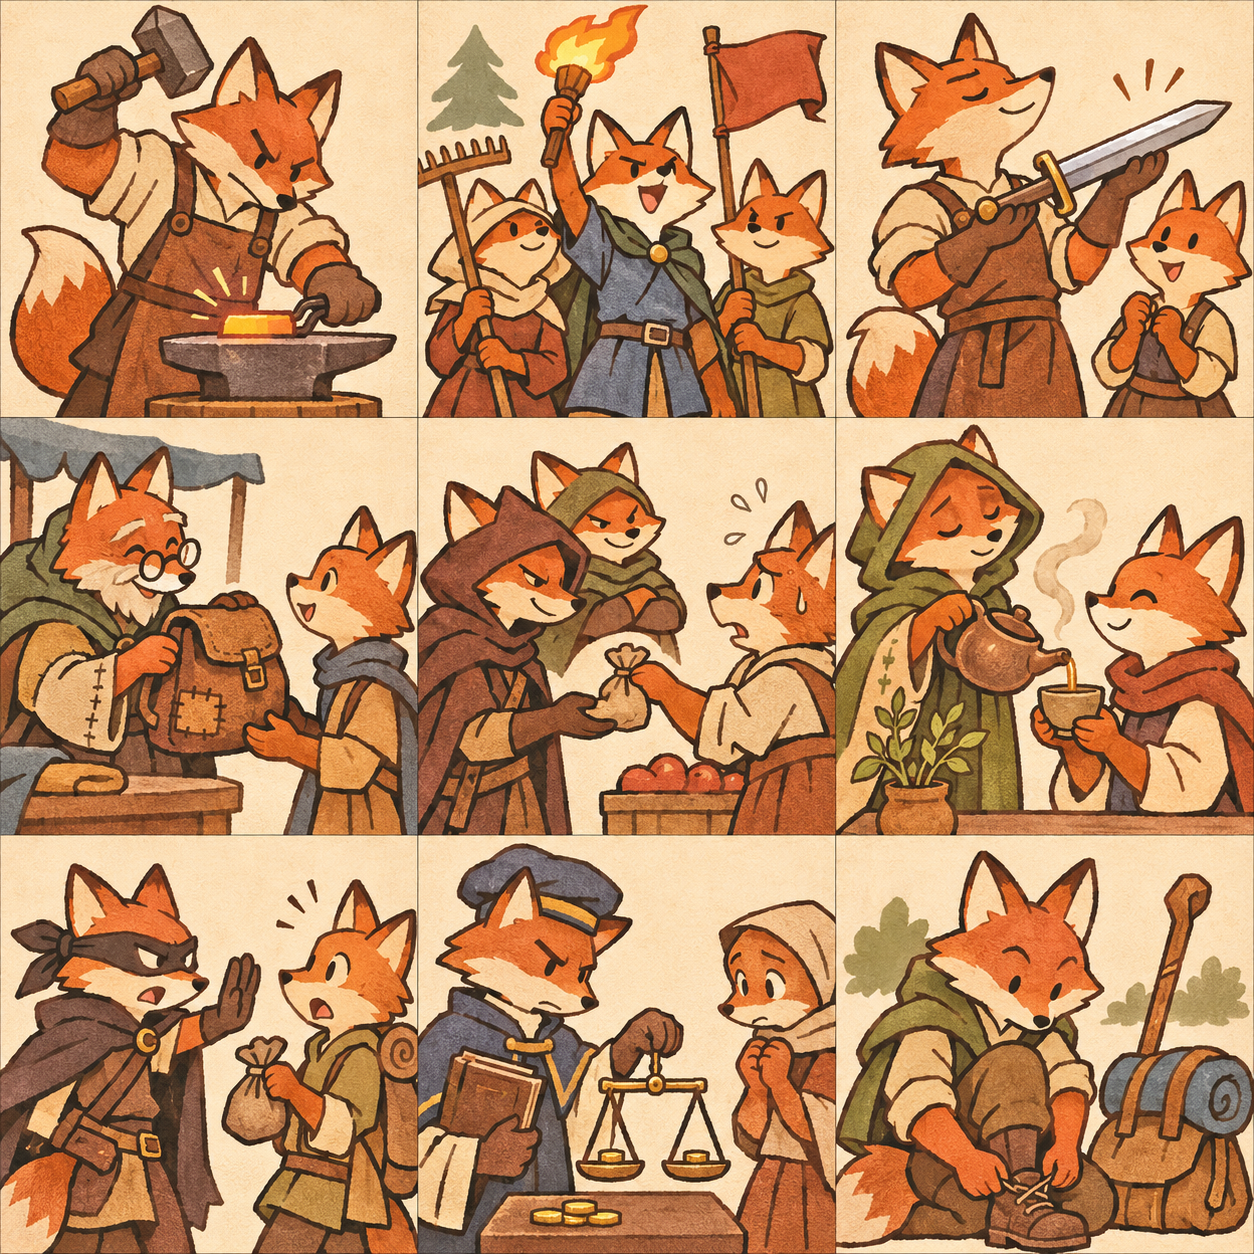
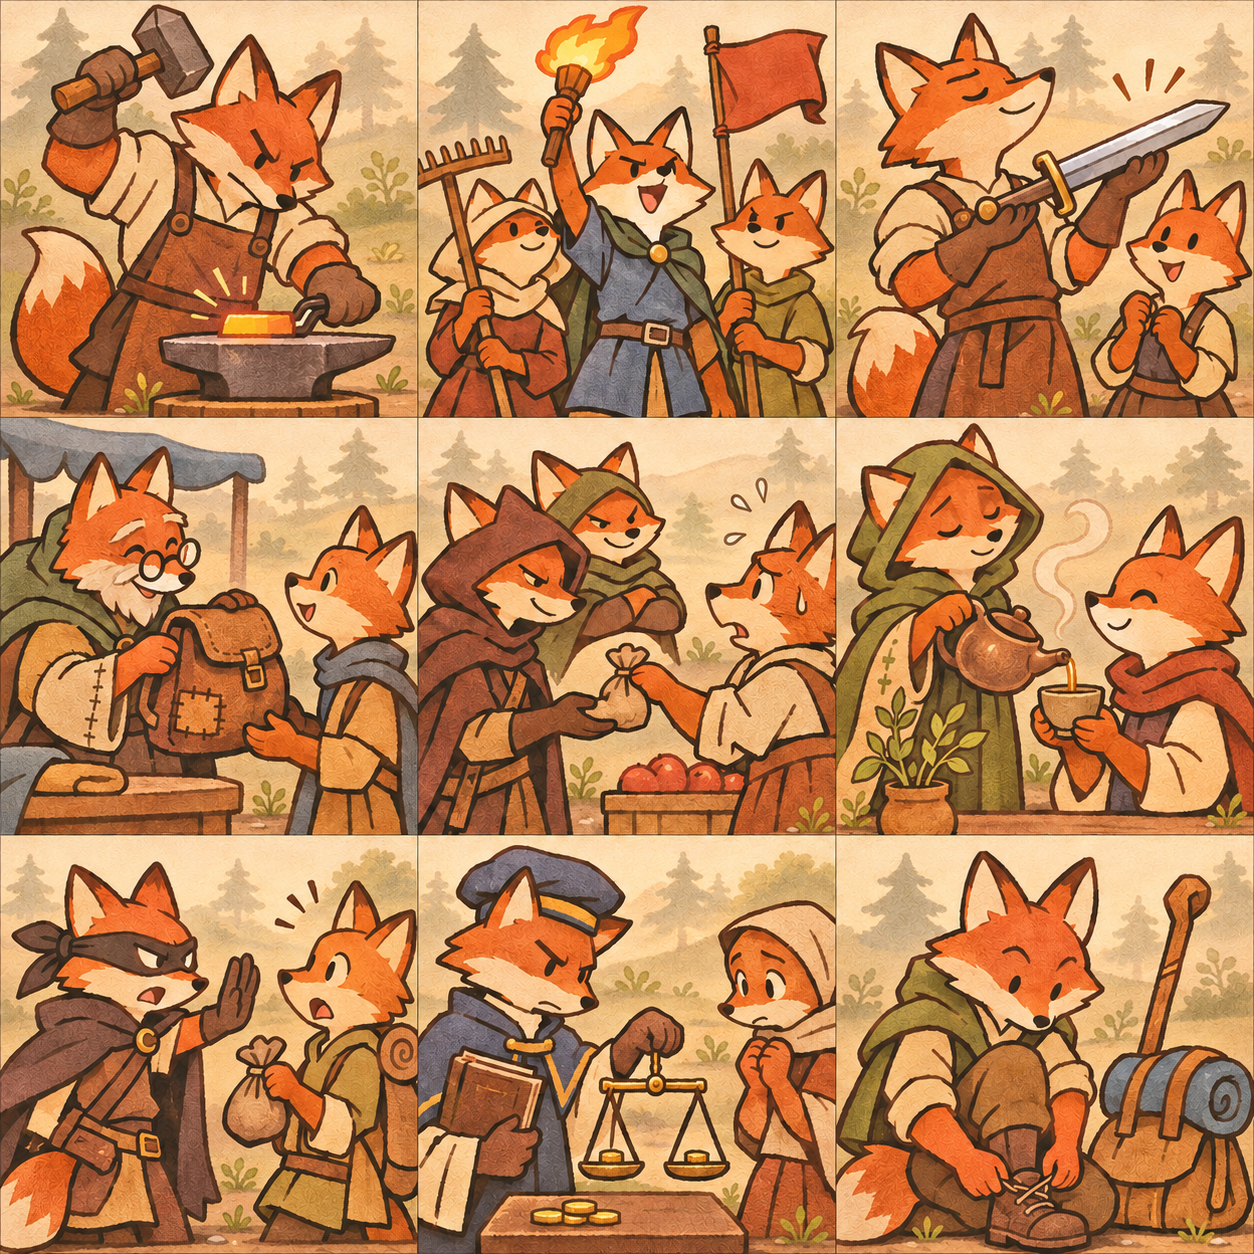
feat(client): add full-bleed art and compact adaptive card effects

diff --git a/packages/client/src/ui/card-face.ts b/packages/client/src/ui/card-face.ts
@@ -29,14 +29,16 @@ const PaperEdge = () => html`<svg class="cf-paper-edge" viewBox="0 0 100 100" pr
   <path class="crease" d="M2 42 L5 45 M98 31 L95 34 M94 94 L92 91 M3 75 L5 79" />
 </svg>`
 
-function Frame({ suit, cost, art, plaque, name, sub, text, size, label, paper = false, standard = false }: {
-  suit: CardDef['suit']; cost: ComponentChildren; art: string; plaque: ComponentChildren; name: string; sub: string; text: string; size: 'mini' | 'full'; label: string; paper?: boolean; standard?: boolean
+function Frame({ suit, cost, art, plaque, name, sub, text, size, label, paper = false, standard = false, costCount = 0 }: {
+  suit: CardDef['suit']; cost: ComponentChildren; art: string; plaque: ComponentChildren; name: string; sub: string; text: string; size: 'mini' | 'full'; label: string; paper?: boolean; standard?: boolean; costCount?: number
 }) {
+  const effect = html`<div class=${`cf-text${paper ? ' cf-paper' : ''}`}>${paper && html`<${PaperEdge} />`}${!standard && html`<b class=${`cf-name${name.length > 18 ? ' long longer' : name.length > 13 ? ' long' : ''}`}>${name}</b>`}${size === 'mini' ? html`<small>${sub}</small>` : html`<p>${displayCardText(text)}</p>`}</div>`
   return html`<div class=${`cardface ${size}${standard ? ' standard' : ''}`} style=${{ '--suit': `var(--suit-${suit})` }} role="img" aria-label=${label}>
     <div class="cf-head"><span class="cf-badge"><${SuitBadge} suit=${suit} label=${SUIT_NAME[suit]} /></span>${standard ? html`<b class="cf-title">${name}</b>` : html`<span class="cf-cost">${cost}</span>`}</div>
     <div class="cf-art" dangerouslySetInnerHTML=${{ __html: art }}></div>
-    <div class="cf-plaque">${standard ? html`<span class="cf-cost" aria-label="Điều kiện chế tạo">${cost}</span>` : plaque}</div>
-    <div class=${`cf-text${paper ? ' cf-paper' : ''}`}>${paper && html`<${PaperEdge} />`}${!standard && html`<b class=${`cf-name${name.length > 18 ? ' long longer' : name.length > 13 ? ' long' : ''}`}>${name}</b>`}${size === 'mini' ? html`<small>${sub}</small>` : html`<p>${displayCardText(text)}</p>`}</div>
+    ${standard ? html`<div class="cf-bottom" data-cost-count=${costCount} style=${{ '--cost-columns': costCount > 2 ? 2 : 1 }}>
+      <div class="cf-plaque"><span class="cf-cost" aria-label="Điều kiện chế tạo">${cost}</span></div>${effect}</div>`
+      : html`<div class="cf-plaque">${plaque}</div>${effect}`}
   </div>`
 }
 
@@ -66,7 +68,7 @@ export function CardFace({ card }: { card: string; size: 'mini' | 'full' }) {
     : html`<span style=${{ '--icon-fill': 'var(--paper-raised)' }}><${Icon} name=${PLAQUE[d.kind]} /></span>`
   const sub = d.kind === 'item' ? `${ITEM_NAME[d.item!]} · +${d.vp ?? 0}` : KIND_NAME[d.kind]
   return html`<${Frame} suit=${d.suit} cost=${d.cost.map(s => html`<${CostPip} suit=${s} />`)} art=${cardArt(d, copyOf(card))} plaque=${plaque}
-    standard=${d.kind !== 'dominance'} paper=${d.kind === 'item' || d.kind === 'immediate'} name=${d.name} sub=${sub} text=${cardText(d)} size=${size} label=${`${d.name}, ${SUIT_NAME[d.suit]}, ${sub}`} />`
+    standard=${d.kind !== 'dominance'} costCount=${d.cost.length} paper=${d.kind === 'item' || d.kind === 'immediate'} name=${d.name} sub=${sub} text=${cardText(d)} size=${size} label=${`${d.name}, ${SUIT_NAME[d.suit]}, ${sub}`} />`
 }
 
 /** A Vagabond quest (§9.5.5): the two items to exhaust sit where a card's cost would be. */

diff --git a/packages/client/src/style.css b/packages/client/src/style.css
@@ -160,15 +160,18 @@ input[type=checkbox] { accent-color: var(--wood); width: 16px; height: 16px; }
 .cardface.full .cf-plaque { left: 4%; bottom: 3%; width: 17%; height: 44%; flex-direction: column; font-size: .9em; }
 .cardchip-suit { display: inline-flex; margin-right: 3px; vertical-align: -3px; }
 .cardchip-suit .suit-badge { width: 16px; height: 16px; }
-/* Ordinary craftable cards: suit + name above, crafting suits below left, effect alone below right. */
-.cardface.standard .cf-head { gap: .3em; padding: 0 4%; }
-.cardface.standard .cf-badge { flex: none; }
-.cardface.standard .cf-title { min-width: 0; font: 400 1em/1.15 var(--font-display); white-space: normal; overflow-wrap: anywhere; }
-.cardface.standard .cf-art { inset: 17% 0 36%; }
-.cardface.standard .cf-text { height: 31%; }
-.cardface.standard .cf-plaque { height: 31%; }
-.cardface.standard .cf-cost { flex-direction: column; align-items: center; gap: .1em; }
-.cardface.standard .cf-pip { box-sizing: border-box; width: 1.25em; height: 1.25em; flex: none; }
+/* Ordinary cards: full-bleed painting and a content-sized crafting/effect slip. */
+.cardface.standard { background: var(--paper); }
+.cardface.standard .cf-head { gap: .3em; padding: 0 4%; z-index: 2; }
+.cardface.standard .cf-badge { position: absolute; left: 4%; bottom: -1px; transform: translateY(50%); }
+.cardface.standard .cf-title { min-width: 0; margin-left: 2.9em; color: var(--white); font: 600 .9em/1.15 var(--font-display); white-space: normal; overflow-wrap: anywhere; text-shadow: 0 1px 1px var(--ink-a25); }
+.cardface.standard .cf-art { inset: 17% 0 0; border: 0; }
+.cardface.standard .cf-bottom { position: absolute; z-index: 1; left: 4%; right: 4%; bottom: 3%; display: grid; grid-template-columns: max-content minmax(0, 1fr); align-items: stretch; gap: .25em; }
+.cardface.standard .cf-bottom .cf-text { position: relative; inset: auto; height: auto; min-height: 0; padding: .4em .5em; box-sizing: border-box; }
+.cardface.standard .cf-bottom .cf-text p { font-size: .55em; line-height: 1.35; }
+.cardface.standard .cf-bottom .cf-plaque { position: static; width: auto; height: auto; padding: .3em; font-size: .9em; box-sizing: border-box; }
+.cardface.standard .cf-cost { display: grid; grid-template-columns: repeat(var(--cost-columns), 1fr); align-items: center; gap: .12em; }
+.cardface.standard .cf-pip { box-sizing: border-box; width: 1.15em; height: 1.15em; flex: none; }
 .cardface.standard .cf-pip.any { font-size: 1em; }
 /* Ambush cards (§4.3.1), like the printed ones: a narrow band with the badge hanging below it and the name, the scene
    down to the bottom edge, one torn-paper box with where it can be played and what it does. */
@@ -492,5 +495,5 @@ button.secondary[aria-pressed="true"] { background: var(--wood); color: var(--pa
 .hud-actions .hud-action-types:empty { display: none; }
 .hud-actions .hud-action-types button { flex: 1; font-size: 12px; }
 
-/* Character scenes keep their full square composition inside the card art window. */
+/* Original character paintings cover the card beneath the header and compact text slips. */
 .cf-art:has(.cf-woodland-art) { background: var(--paper); }

diff --git a/packages/client/visual/card-layout.spec.ts b/packages/client/visual/card-layout.spec.ts
@@ -1,0 +1,39 @@
+import { test, expect } from '@playwright/test'
+
+for (const width of [120, 180, 320]) {
+  test(`ordinary cards use full art and compact readable content at ${width}px`, async ({ page }) => {
+    await page.goto('/ui-kit.html')
+    await page.evaluate(() => document.fonts.ready)
+    const cards = page.locator('.kit-deck .cardface.standard')
+    await expect(cards).toHaveCount(45)
+    const results = await cards.evaluateAll((elements, width) => elements.map(card => {
+      const root = card as HTMLElement
+      root.style.setProperty('--cf-w', `${width}px`)
+      const box = root.getBoundingClientRect()
+      const el = (q: string) => root.querySelector(q) as HTMLElement
+      const head = el('.cf-head').getBoundingClientRect(), badge = el('.cf-badge').getBoundingClientRect()
+      const title = el('.cf-title'), text = el('.cf-text'), plaque = el('.cf-plaque')
+      const art = el('.cf-art').getBoundingClientRect(), bottom = el('.cf-bottom').getBoundingClientRect()
+      return {
+        name: title.textContent,
+        badgeOffset: Math.abs(badge.y + badge.height / 2 - (head.bottom - 1)),
+        color: getComputedStyle(title).color, weight: getComputedStyle(title).fontWeight,
+        titleFits: title.getBoundingClientRect().bottom <= head.bottom + 1,
+        textFits: text.scrollHeight <= text.clientHeight + 1,
+        costFits: el('.cf-cost').getBoundingClientRect().bottom <= plaque.getBoundingClientRect().bottom + 1,
+        artToBottom: Math.abs(art.bottom - (box.bottom - 1.5)),
+        compact: bottom.height / box.height,
+        height: bottom.height,
+      }
+    }), width)
+    for (const r of results) {
+      expect(r.badgeOffset, r.name ?? '').toBeLessThanOrEqual(1.5)
+      expect(r.color).toBe('rgb(255, 255, 255)')
+      expect(r.weight).toBe('600')
+      expect(r.titleFits && r.textFits && r.costFits, r.name ?? '').toBe(true)
+      expect(r.artToBottom, r.name ?? '').toBeLessThan(1)
+      expect(r.compact, r.name ?? '').toBeLessThan(.34)
+    }
+    expect(new Set(results.map(r => r.height)).size).toBeGreaterThan(2)
+  })
+}

diff --git a/packages/client/src/ui/woodland-art.ts b/packages/client/src/ui/woodland-art.ts
@@ -22,9 +22,9 @@ export function woodlandArt(id: string, suit: CardSuit): string {
   const cell = 418, inset = 3
   const x = (index % 3) * cell + inset, y = Math.floor(index / 3) * cell + inset, size = cell - inset * 2
   const clip = `woodland-${id}`
-  // Clip the sheet itself, so 'meet' cannot expose neighbouring panels in the side margins.
-  // Keep the complete square scene: the main character's ears, paws and props stay visible in the wide art window.
-  return `<svg class="cf-scene cf-woodland-art" data-design="${id}" data-suit="${suit}" viewBox="${x} ${y} ${size} ${size}" preserveAspectRatio="xMidYMid meet" aria-hidden="true">`
+  // Keep the whole painted panel and fill the card beneath the header, including behind the text slip.
+  // A dedicated clip prevents neighbouring scenes from entering the card.
+  return `<svg class="cf-scene cf-woodland-art" data-design="${id}" data-suit="${suit}" viewBox="${x} ${y} ${size} ${size}" preserveAspectRatio="none" aria-hidden="true">`
     + `<defs><clipPath id="${clip}"><rect x="${x}" y="${y}" width="${size}" height="${size}"/></clipPath></defs>`
     + `<image href="${SHEETS[suit]}" width="1254" height="1254" clip-path="url(#${clip})"/></svg>`
 }

diff --git a/packages/client/test/cards.test.ts b/packages/client/test/cards.test.ts
@@ -106,3 +106,15 @@ test('dominance and quests keep header conditions and name in the lower panel', 
   assert.match(out, /cf-head.*cf-cost.*cf-art/s)
   assert.match(out, /cf-text.*cf-name/s)
 })
+
+
+test('ordinary crafting/effect slips use intrinsic content size and pack larger costs in two columns', () => {
+  for (const d of BASE_DECK.filter(d => ['item', 'persistent', 'immediate'].includes(d.kind))) {
+    const out = render(html`<${CardFace} card=${`${d.id}#1`} size="full" />`)
+    assert.ok(out.includes(`data-cost-count="${d.cost.length}"`), d.id)
+    assert.ok(out.includes(`--cost-columns:${d.cost.length > 2 ? 2 : 1}`), d.id)
+    assert.match(out, /cf-bottom.*cf-plaque.*cf-text/s, d.id)
+  }
+  const special = render(html`<${CardFace} card="dominance-fox#1" size="full" />`)
+  assert.ok(!special.includes('cf-bottom'))
+})

diff --git a/packages/client/test/woodland-art.test.ts b/packages/client/test/woodland-art.test.ts
@@ -18,7 +18,7 @@ test('all 45 craftable cards map to exactly 34 distinct character paintings', ()
     const art = cardArt(d)
     assert.ok(art.includes(`data-design="${d.id}"`), d.id)
     assert.ok(art.includes(`woodland-${d.suit}.png`), d.id)
-    assert.ok(art.includes('clip-path=') && art.includes('xMidYMid meet'), d.id)
+    assert.ok(art.includes('clip-path=') && art.includes('preserveAspectRatio="none"'), d.id)
     for (let copy = 1; copy <= d.copies; copy++) assert.equal(cardArt(d, copy), art)
   }
 })

diff --git a/docs/07-ui/style-guide.md b/docs/07-ui/style-guide.md
@@ -90,11 +90,11 @@ Mọi vật 3D lấy vật liệu theo **vai trò** từ `board/look.ts` (`mat(r
 - **Nút chính:** gỗ có vân (`--grain-wood` trên chuyển sắc `wood-light` → `wood`), chữ `paper`, viền `ink`; hover sáng hơn một nấc; bấm lún 2 px. Nút phụ là giấy. Nút có kiểu riêng (neo ô, huy hiệu, dải bài) giữ kiểu của nó.
 - **Lá bài** (`ui/card-face.ts`): viền ngoài 1 px (mini), 1.5 px (full), bằng một nửa trước đây. Chữ nội dung nhỏ, weight 400; tiêu đề có khoảng thở với viền. Ô nội dung các lá dùng một lần (Ambush, dùng ngay và chế tạo item) là giấy vàng nhạt `paper-effect`, viền mực mảnh với vài vết rách/nếp gấp nhỏ; các lá lâu dài, dominance và quest giữ kiểu khung riêng.
   Bố cục: bố cục theo lá in, tỉ lệ 63:88, mọi lá trong bộ 54 lá dùng `full` 320 px với hiệu ứng đầy đủ, kể cả tay bài và hộp quyết định; quest giữ cỡ `mini` 92 px hoặc `full` 320 px.
-  - **Dải đầu màu chất:** bài thường (item, dùng ngay, lâu dài) có huy hiệu chất bên trái và tên lá bài bên phải theo mẫu người quản lý ngày 03/11/2026. Dominance và Quest giữ bố cục riêng; Quest để hai item yêu cầu ở dải đầu.
-  - **Vùng tranh** (`ui/card-art.ts`, `ui/woodland-art.ts`): 45 lá thường dùng 34 tranh gốc do imagegen tạo ngày 03/11/2026 theo yêu cầu người quản lý: nhân vật rừng là chủ thể, nét mực nâu giản dị, mảng gouache phẳng ấm và giấy có thớ, nền ít chi tiết. Chim/Cáo/Thỏ/Chuột có một sheet 3×3 riêng, lần lượt 8/9/8/9 cảnh, thứ tự ở `WOODLAND_PANELS`. Nhân vật thể hiện hành động và đạo cụ chính của lá (thợ giáp, thợ rèn, người bán trà, thu thuế, trinh sát…); bản sao cùng mẫu dùng chung tranh. Giữ trọn cảnh vuông trong cửa sổ tranh, nền giấy hai bên; clip riêng ô để không lộ cảnh kế bên. Không phản chiếu tranh nhân vật. Ambush giữ nguyên tranh đã duyệt trong `ambush-woodland.png`; Dominance và Quest giữ tranh SVG sinh bằng code. Không dùng art chính thức.
-  - **Tấm gỗ** góc dưới trái: bài thường đặt các chất cần để chế tạo, xếp dọc; `?` ba màu là bất kỳ chất nào. Item và điểm thưởng đã có trong nội dung hiệu ứng. Dominance giữ vương miện; Quest giữ sao + lá.
+  - **Dải đầu màu chất:** bài thường (item, dùng ngay, lâu dài) có huy hiệu chất bên trái và tên lá bài bên phải theo mẫu người quản lý ngày 03/11/2026. Đường phân cách dưới dải đầu đi qua tâm huy hiệu chất. Tên bài thường màu `white`, weight 600. Dominance và Quest giữ bố cục riêng; Quest để hai item yêu cầu ở dải đầu.
+  - **Vùng tranh** (`ui/card-art.ts`, `ui/woodland-art.ts`): 45 lá thường dùng 34 tranh gốc do imagegen tạo ngày 03/11/2026 theo yêu cầu người quản lý: nhân vật rừng là chủ thể, nét mực nâu giản dị, mảng gouache phẳng ấm và giấy có thớ, nền ít chi tiết. Chim/Cáo/Thỏ/Chuột có một sheet 3×3 riêng, lần lượt 8/9/8/9 cảnh, thứ tự ở `WOODLAND_PANELS`. Nhân vật thể hiện hành động và đạo cụ chính của lá (thợ giáp, thợ rèn, người bán trà, thu thuế, trinh sát…); bản sao cùng mẫu dùng chung tranh. Theo chỉnh sửa 03/11/2026, tranh được imagegen bổ sung cây xa, tiền/trung cảnh và bóng tiếp xúc nhẹ; trải từ dưới dải đầu đến đáy lá, kể cả phía sau khung nội dung, không còn dải xanh. SVG giữ toàn cảnh và co theo vùng tranh bằng `preserveAspectRatio="none"`; clip riêng ô để không lộ cảnh kế bên. Không phản chiếu tranh nhân vật. Ambush giữ nguyên tranh đã duyệt trong `ambush-woodland.png`; Dominance và Quest giữ tranh SVG sinh bằng code. Không dùng art chính thức.
+  - **Tấm gỗ** góc dưới trái: bài thường đặt các chất cần để chế tạo trong ô vừa nội dung, 1–2 chất xếp một cột, 3–4 chất xếp hai cột; `?` ba màu là bất kỳ chất nào. Item và điểm thưởng đã có trong nội dung hiệu ứng. Dominance giữ vương miện; Quest giữ sao + lá.
   - **Lá Ambush** (§4.3.1) theo bố cục lá in riêng: dải đầu hẹp, huy hiệu chất treo xuống dưới dải, tên lá chữ lớn bên phải; không có chi phí và tấm gỗ; tranh kéo xuống tận đáy lá, dùng tranh indie được chọn theo chất: chim dưới tán cây, thỏ giữa cỏ thu, cáo sau thân cây, chuột bên cối xay; một khung giấy mép rách ở đáy gồm dòng nghiêng nơi được chơi ("Có thể ambush ở ô …", chim là ô bất kỳ) và hiệu ứng đầy đủ.
-  - **Khung giấy** góc vát: bài thường chỉ chứa hiệu ứng tiếng Việt, không lặp tên lá bài; tên gốc tiếng Anh bằng Pangolin nằm trên dải đầu. Dominance và Quest giữ tên trong khung dưới; quest cỡ `mini` giữ dòng loại lá; số điều khoản giữ trong source để đối chiếu, không hiện trên lá hay mô tả chi tiết (`ui/card-text.ts`). Câu tiếng Anh in gốc xem trong "Bản in tiếng Anh" của khung chi tiết.
+  - **Khung giấy** góc vát: bài thường chỉ chứa hiệu ứng tiếng Việt, không lặp tên lá bài; khay điều kiện/hiệu ứng dùng grid theo nội dung và số chất, chiều cao tự co theo số dòng thay vì một tỉ lệ cố định cho mọi lá. Tên gốc tiếng Anh bằng Pangolin nằm trên dải đầu. Dominance và Quest giữ tên trong khung dưới; quest cỡ `mini` giữ dòng loại lá; số điều khoản giữ trong source để đối chiếu, không hiện trên lá hay mô tả chi tiết (`ui/card-text.ts`). Câu tiếng Anh in gốc xem trong "Bản in tiếng Anh" của khung chi tiết.
   - **Chất liệu:** cả mặt lá phủ thớ bìa; tranh có ánh sáng từ trên, bóng dưới chân vật chính và vignette nhẹ; tấm gỗ có vân; rê chuột qua lá có vệt phản quang chạy ngang.
 - **Chip phe:** hình con vật + tên; luôn có cả màu và hình.
 - **Hộp quyết định:** quyết định gắn một ô (ambush, chia hit, Field Hospitals…) hiện thành callout ngay tại ô đó; chỉ lựa chọn không gắn ô (leader, nhân vật, bỏ bài) mới nổi giữa màn. Luôn có tiêu đề nói rõ ai đang quyết định gì và điều khoản luật liên quan (vd §4.3.1).

diff --git a/packages/client/src/assets/cards/README.md b/packages/client/src/assets/cards/README.md
@@ -22,9 +22,9 @@ This artwork is original, with no official scans or traced game art.
 - `woodland-rabbit.png`: 8 scenes, final square unused.
 - `woodland-mouse.png`: 9 scenes.
 
-Each original PNG is kept unchanged at 1254×1254, a 3×3 grid with 418 px cells.
+Each source PNG is stored at its original generated size of 1254×1254, a 3×3 grid with 418 px cells.
 `ui/woodland-art.ts` lists each cell's design in row-major order and clips 3 px inside its edges.
-SVG `meet` preserves the full scene and important ears, paws and props; clipping prevents adjacent cells from appearing in the side margins.
+SVG `preserveAspectRatio="none"` keeps the whole scene while filling the card from beneath the header to the bottom, including behind the compact text slip. Dedicated clipping keeps adjacent cells out.
 Four shared local sheets work offline and require no runtime image generation.
 
 Art direction: simple dark brown irregular ink outlines, warm flat gouache fills,
@@ -36,3 +36,12 @@ merchants, tax collectors and travelers; rabbits are friends, bakers, bankers,
 cobblers, commanders and smugglers; mice are scholars, craftsmen, merchants and scouts.
 
 Card names, crafting conditions, effects, Ambush, Dominance and Quest are unchanged.
+
+
+## Background depth revision — 2026-11-03
+
+The owner requested soft backgrounds, a little depth, full-card paintings and removal of the olive bottom band.
+The built-in imagegen editor used each existing sheet as reference, preserving the characters, actions and panel order,
+and adding low-contrast distant trees, workshop details, ground vegetation, atmospheric light and contact shadows.
+The revised output replaces each production sheet; original generations remain in the workspace's generated_images directory.
+No hand-edited raster or official art was used. Updated originals remain exact 1254×1254 three-by-three sheets.
